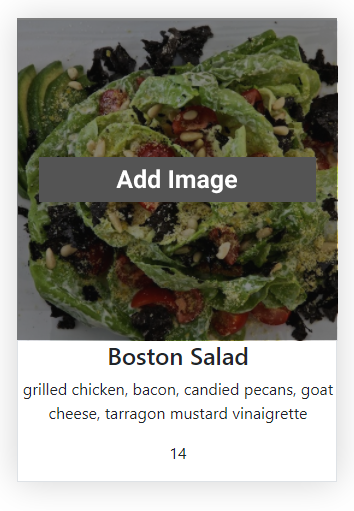
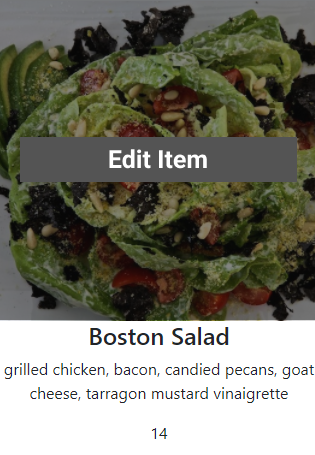
staffportal styling

diff --git a/public/css/staffportal.css b/public/css/staffportal.css
@@ -1,0 +1,119 @@
+
+.flexCol{
+    display: flex;
+    flex-direction: column;
+    align-items: center;
+}
+
+.flexRowWrap{
+    display: flex;
+    flex-direction: row;
+    flex-wrap: wrap;
+    justify-content: center;
+}
+
+.flexRow{
+    display: flex;
+    flex-direction: row;
+    justify-content: space-evenly;
+}
+
+/* staff portal home */
+.feedbackDivRight{
+    margin-top: 2.5em;
+    display: flex;
+    flex-direction: column;
+    align-items: flex-start;
+    border: 1px solid black;
+    padding: .5em;
+}
+
+
+/* staff portal menu */
+.mainWidth{
+    width: 60vw;
+    margin: auto;
+}
+
+
+/* feedback */
+.customerInfo{
+    font-size: .75em;
+    font-weight: bold;
+    margin: 0;
+}
+
+.feedback h1{
+    font-size: 1.5em;
+}
+
+.feedbackDiv{
+    border: 1px solid black;
+    margin: 1em;
+}
+
+.feedbackDiv-feedbackPage{
+    border: 1px solid grey;
+    margin: 2em;
+    width: 20em;
+    padding: 0 1em;
+}
+
+.mainFeedbackDiv-feedbackpage{
+    display: flex;
+    flex-direction: row;
+    flex-wrap: wrap;
+    justify-content: flex-start;
+}
+
+/* events */
+.events{
+    display: flex;
+    flex-direction: column;
+    align-items: flex-start;
+}
+
+.upcomingEventsh1{
+    font-size: 1.25em;
+    font-weight: bold;
+    margin-left: 1.5em;
+}
+
+.eventDateHeader{
+    font-size: 1.25em;
+    font-weight: bold;
+}
+
+.eventDiv{
+    width: 18em;
+    margin: 1.5em;
+    border: 1px solid black;
+}
+
+/* menu home */
+.menuHome{
+    margin-top: 2em;
+}
+
+.menuItemDiv {
+    width: 20em;
+    margin: 2em;
+    margin-top: 0;
+    font-size: 1em;
+    text-align: center;
+
+    transition: all 1.25s;
+}
+
+.menuHomeTitle{
+    margin: 1.5em;
+}
+
+.menuHomeTitle h1{
+    font-weight: bold;
+}
+
+/* interactive */
+.menuItemDiv:hover{
+    box-shadow: 0 0 50px rgba(73, 73, 73, 0.5);
+}

diff --git a/public/scripts/feedback.js b/public/scripts/feedback.js
@@ -5,6 +5,8 @@ let feedbackToDisplay = 25;
 
 const feedbackContainer = document.querySelector('#feeback');
 
+var path = window.location.pathname;
+
 if (feedback.length === 0 || feedback === undefined) {
     const h3 = document.createElement('h3');
     h3.innerHTML = "Sorry, no results found"
@@ -21,6 +23,12 @@ if (feedback.length === 0 || feedback === undefined) {
         const p2 = document.createElement('p');
         p2.classList.add('feedbackText')
         p2.innerHTML = `${currentObj.text}`
+
+        if (path === "/cheflavor/staffportal/feedback") {
+            feedbackDiv.classList.add("feedbackDiv-feedbackPage")
+        } else {
+            feedbackDiv.classList.add("feedbackDiv");
+        }
     
         feedbackDiv.appendChild(p1);
         feedbackDiv.appendChild(p2);

diff --git a/public/css/calendar.css b/public/css/calendar.css
@@ -116,7 +116,7 @@ td{
 
 .dialog button{
     margin: .25em 1em;
-    margin-top: .75em;
+    margin-top: 1.75em;
 
     background-color: var(--todayColor);
     border: 0px solid var(--todayColor);
@@ -160,18 +160,15 @@ td{
     margin-bottom: .25em;
 }
 
-.emailAndPhone input{
-    width: 15em;
-}
-
 .contactInfo label{
     margin: 0;
 }
 
 .emailAndPhone{
     display: flex;
-    flex-direction: column;
-    align-items: flex-start;
+    flex-direction: row;
+    justify-content: space-between;
+    align-items: center;
     margin-top: 1.5em;
 }
 

diff --git a/public/scripts/events.js b/public/scripts/events.js
@@ -28,7 +28,9 @@ for (var i = 0; i < eventsToDisplay; i++) {
     const currentObj = datesObj[sorted[i]]
 
     const eventDiv = document.createElement('div');
-    const header = document.createElement('h1');
+    eventDiv.classList.add('eventDiv')
+    const header = document.createElement('h3');
+    header.classList.add('eventDateHeader')
     header.innerHTML = currentObj.dateSelected;
     const p = document.createElement('p');
     p.innerHTML = `event with ${currentObj.firstName} ${currentObj.lastName} starting at ${currentObj.timeSelected}`

diff --git a/public/css/chefFlavorHome.css b/public/css/chefFlavorHome.css
@@ -310,7 +310,7 @@ contact us page
     margin-top: 0;
 }
 
-form button{
+.confirmBtn{
     margin: 1em;
     width: 7em;
     color: white;
